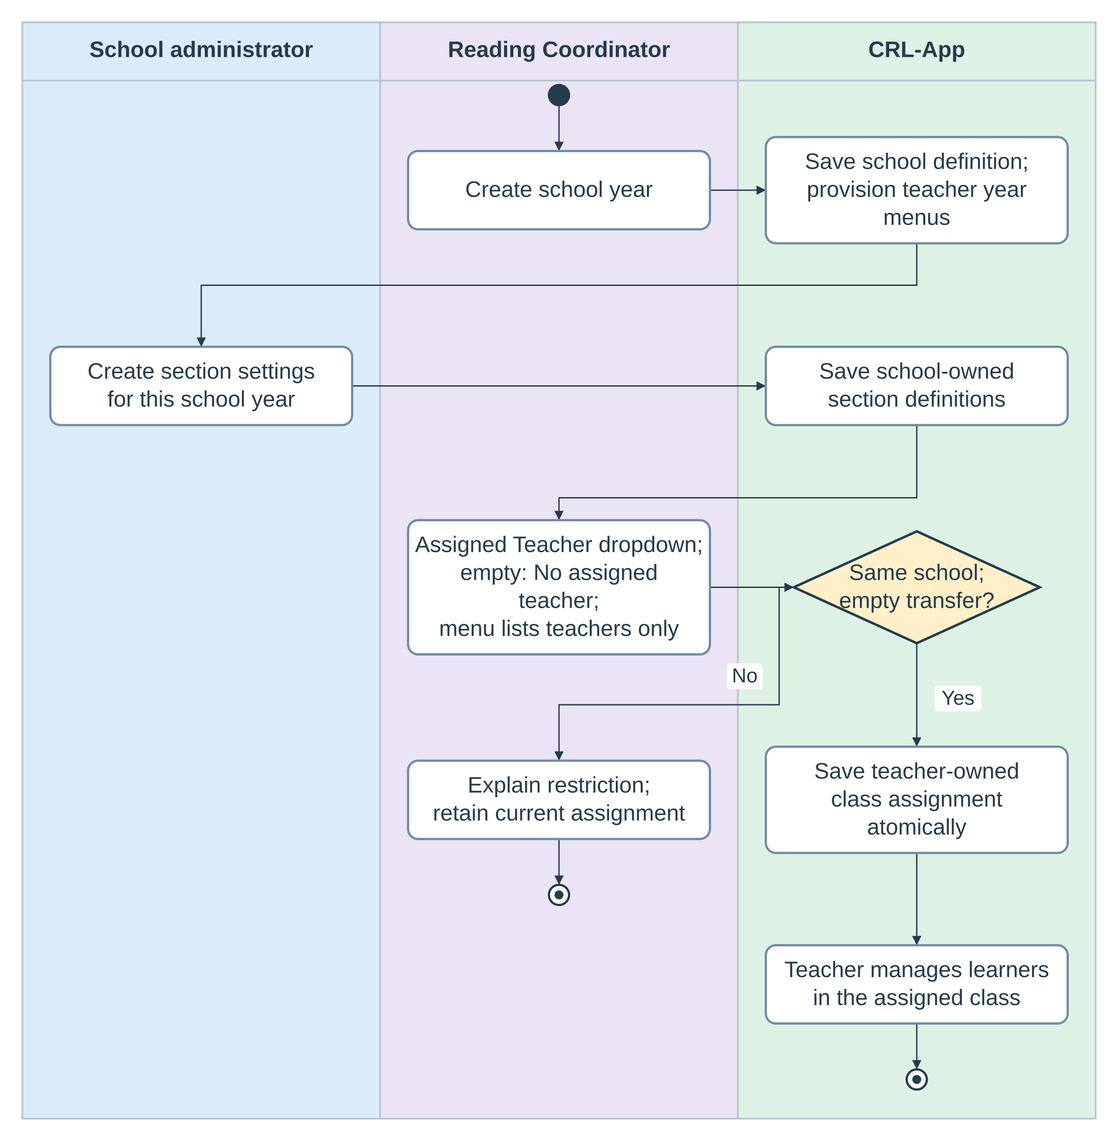
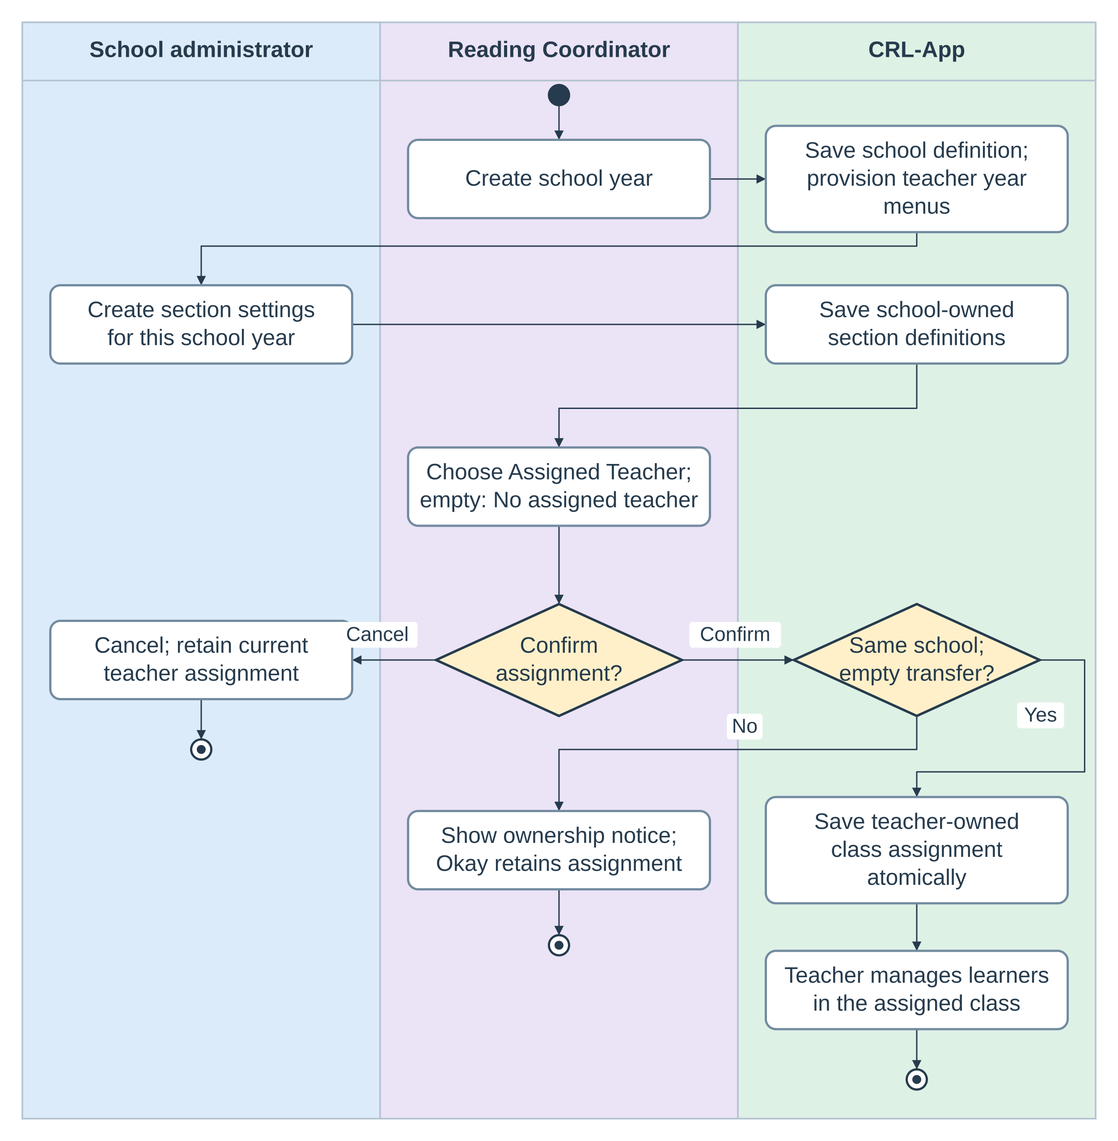
CRL-2026-11-07.8 confirm teacher assignments and refine ownership notices

diff --git a/components/SchoolYearAssignments.jsx b/components/SchoolYearAssignments.jsx
@@ -2,10 +2,11 @@
 import {useCallback,useEffect,useMemo,useRef,useState} from 'react';
 import Select from './Select';
 import ClassDialog from './ClassDialog';
+import NoticeDialog from './NoticeDialog';
 import WorkspaceLoading from './WorkspaceLoading';
 import styles from './Coordinator.module.css';
 export default function SchoolYearAssignments({api,refreshKey=0}) {
- const [data,setData]=useState(null),[year,setYear]=useState(''),[search,setSearch]=useState(''),[order,setOrder]=useState('desc'),[form,setForm]=useState(null),[newYear,setNewYear]=useState(''),[password,setPassword]=useState(''),[deleteYear,setDeleteYear]=useState(null),[busy,setBusy]=useState(false),[loading,setLoading]=useState(true),[error,setError]=useState('');const generation=useRef(0),pending=useRef(false);
+ const [data,setData]=useState(null),[year,setYear]=useState(''),[search,setSearch]=useState(''),[order,setOrder]=useState('desc'),[form,setForm]=useState(null),[newYear,setNewYear]=useState(''),[password,setPassword]=useState(''),[deleteYear,setDeleteYear]=useState(null),[busy,setBusy]=useState(false),[loading,setLoading]=useState(true),[error,setError]=useState(''),[confirmation,setConfirmation]=useState(null),[notice,setNotice]=useState('');const generation=useRef(0),pending=useRef(false);
  const load=useCallback(async()=>{const token=++generation.current;setLoading(true);try{const d=await api('coordinator_setup');if(token===generation.current)setData(d);}finally{if(token===generation.current)setLoading(false);}},[api]);
  useEffect(()=>{void load().catch(e=>setError(e.message));return()=>{generation.current++;};},[load,refreshKey]);
  const assignedCount=y=>data?.sections.filter(s=>s.startYear===y.startYear&&s.classes.length).length||0;
@@ -14,6 +15,7 @@ export default function SchoolYearAssignments({api,refreshKey=0}) {
  const deleteTarget=data?.years.find(y=>y.startYear===deleteYear),deleteCount=(data?.sections||[]).filter(s=>s.startYear===deleteYear).reduce((n,s)=>n+s.classes.length,0);
  const open=(kind,target)=>{setDeleteYear(target?.startYear??null);setForm(kind);setNewYear('');setPassword('');setError('');};
  const submit=async e=>{e.preventDefault();if(pending.current)return;pending.current=true;setBusy(true);setError('');try{if(form==='add'){await api('coordinator_add_year',{body:{start_year:Number(newYear)}});setYear(newYear);}else{await api('coordinator_delete_year',{body:{id:crypto.randomUUID(),start_year:deleteYear,expected_sections:deleteCount,empty_confirmation:deleteCount===0,confirmation_password:password}});if(Number(year)===deleteYear)setYear('');}setForm(null);void load().catch(e=>setError(e.message));}catch(e){setError(e.message);}finally{pending.current=false;setBusy(false);}};
- const assign=async(row,value)=>{if(pending.current)return;pending.current=true;setBusy(true);setError('');try{await api('coordinator_assign_section',{body:{start_year:Number(year),section_id:row.id,teacher_id:value?Number(value):null}});void load().catch(e=>setError(e.message));}catch(e){setError(e.message);}finally{pending.current=false;setBusy(false);}};
- return <><div className={styles.yearWorkspace}><section className={`${styles.panel} ${styles.yearDirectory}`} aria-label="School year list"><div className={styles.yearControls}><input type="search" aria-label="Search school years" placeholder="Search school years" value={search} onChange={e=>setSearch(e.target.value)}/><Select aria-label="Sort school years" value={order} onChange={e=>setOrder(e.target.value)}><option value="desc">Newest year first</option><option value="asc">Oldest year first</option></Select><button className={styles.primary} disabled={busy||loading} onClick={()=>open('add')}>Create school year</button></div>{loading?<WorkspaceLoading label="Loading school years…" variant="years"/>:<div className={styles.yearList}>{years.map(y=><article className={styles.yearListItem} data-selected={String(y.startYear)===year} key={y.startYear}><button className={styles.assignmentYear} aria-current={String(y.startYear)===year?'true':undefined} onClick={()=>setYear(String(y.startYear))}><strong>{y.label}</strong><small>{assignedCount(y)} section{assignedCount(y)===1?'':'s'}</small></button><button className={styles.yearTrash} aria-label={`Delete school year ${y.label}`} title={`Delete ${y.label}`} disabled={busy} onClick={()=>open('delete',y)}><svg width="19" height="19" viewBox="0 0 24 24" fill="none" stroke="currentColor" strokeWidth="1.7" aria-hidden="true"><path d="M3 6h18M9 6V3h6v3M5 6l1 15h12l1-15M10 10v7m4-7v7"/></svg></button></article>)}{!years.length&&<p className={styles.empty}>{data?.years.length?'No matching school years.':'No school years yet.'}</p>}</div>}</section><section className={`${styles.panel} ${styles.yearDetail}`} aria-label="School year assignments" aria-busy={loading}>{error&&!form&&<p role="alert" className={styles.error}>{error}</p>}{loading?<WorkspaceLoading label="Loading section assignments…" variant="years"/>:selected?<><div className={styles.contentHeading}><h2>{selected.label}</h2></div><div className={styles.yearList}>{sections.map(s=><article key={s.id} className={styles.assignmentRow}><strong>{s.name}</strong><div className={styles.teacherAssignment}><label><span>Assigned Teacher</span><Select aria-label={`Assigned teacher for ${s.name}`} value={String(s.classes[0]?.teacherId||'')} disabled={busy} onChange={e=>void assign(s,e.target.value)}><option hidden value="">No assigned teacher</option>{data.teachers.map(t=><option key={t.id} value={t.id}>{t.fullName}</option>)}</Select></label>{s.classes.length>0&&<button type="button" className={styles.unassignTeacher} disabled={busy} onClick={()=>void assign(s,'')} aria-label={`Unassign teacher from ${s.name}`}>Unassign</button>}</div></article>)}{!sections.length&&<p className={styles.empty}>No sections for this school year yet.</p>}</div></>:<p className={styles.empty}>Select a school year to view its sections and assigned teachers.</p>}</section></div>{form&&<ClassDialog title={form==='add'?'Create school year':`Delete school year ${deleteTarget?.label||''}?`} showClose busy={busy} onClose={()=>{if(!busy)setForm(null);}}><form className={styles.editorFields} onSubmit={submit}>{form==='add'?<label>School-year start<input required type="number" min={2000} max={2100} placeholder="2027" value={newYear} onChange={e=>setNewYear(e.target.value)}/></label>:<><p>{deleteCount?'Its sections and learner records will move to Recovery for 30 days.':'Remove this empty school year?'}</p>{deleteCount>0&&<label>Your coordinator password<input required type="password" autoComplete="current-password" value={password} onChange={e=>setPassword(e.target.value)}/></label>}</>}{error&&<p role="alert" className={styles.error}>{error}</p>}<div className={styles.dialogActions}><button type="button" className={styles.secondary} disabled={busy} onClick={()=>setForm(null)}>Cancel</button><button className={form==='delete'?styles.danger:styles.primary} disabled={busy}>{busy?'Saving…':form==='delete'?'Delete':'Create school year'}</button></div></form></ClassDialog>}</>;
+ const chooseTeacher=(row,value)=>{if(busy||loading||pending.current||String(row.classes[0]?.teacherId||'')===value)return;const teacher=data.teachers.find(t=>String(t.id)===value);if(teacher){setError('');setConfirmation({row:{id:row.id,name:row.name},teacher:{id:teacher.id,fullName:teacher.fullName},startYear:Number(year)});}};
+ const assign=async(row,value,startYear=Number(year))=>{if(pending.current)return;pending.current=true;setBusy(true);setError('');try{await api('coordinator_assign_section',{body:{start_year:startYear,section_id:row.id,teacher_id:value?Number(value):null}});setConfirmation(null);void load().catch(e=>setNotice('Assignment saved, but the section list could not refresh. '+e.message));}catch(e){setConfirmation(null);setNotice(e.message);}finally{pending.current=false;setBusy(false);}};
+ return <><div className={styles.yearWorkspace}><section className={`${styles.panel} ${styles.yearDirectory}`} aria-label="School year list"><div className={styles.yearControls}><input type="search" aria-label="Search school years" placeholder="Search school years" value={search} onChange={e=>setSearch(e.target.value)}/><Select aria-label="Sort school years" value={order} onChange={e=>setOrder(e.target.value)}><option value="desc">Newest year first</option><option value="asc">Oldest year first</option></Select><button className={styles.primary} disabled={busy||loading} onClick={()=>open('add')}>Create school year</button></div>{loading?<WorkspaceLoading label="Loading school years…" variant="years"/>:<div className={styles.yearList}>{years.map(y=><article className={styles.yearListItem} data-selected={String(y.startYear)===year} key={y.startYear}><button className={styles.assignmentYear} aria-current={String(y.startYear)===year?'true':undefined} onClick={()=>setYear(String(y.startYear))}><strong>{y.label}</strong><small>{assignedCount(y)} section{assignedCount(y)===1?'':'s'}</small></button><button className={styles.yearTrash} aria-label={`Delete school year ${y.label}`} title={`Delete ${y.label}`} disabled={busy} onClick={()=>open('delete',y)}><svg width="19" height="19" viewBox="0 0 24 24" fill="none" stroke="currentColor" strokeWidth="1.7" aria-hidden="true"><path d="M3 6h18M9 6V3h6v3M5 6l1 15h12l1-15M10 10v7m4-7v7"/></svg></button></article>)}{!years.length&&<p className={styles.empty}>{data?.years.length?'No matching school years.':'No school years yet.'}</p>}</div>}</section><section className={`${styles.panel} ${styles.yearDetail}`} aria-label="School year assignments" aria-busy={loading}>{error&&!form&&<p role="alert" className={styles.error}>{error}</p>}{loading?<WorkspaceLoading label="Loading section assignments…" variant="years"/>:selected?<><div className={`${styles.contentHeading} ${styles.yearHeading}`}><h2>{selected.label}</h2></div><div className={styles.yearList}>{sections.map(s=><article key={s.id} className={styles.assignmentRow}><strong>{s.name}</strong><div className={styles.teacherAssignment}><label><span>Assigned Teacher</span><Select aria-label={`Assigned teacher for ${s.name}`} value={String(s.classes[0]?.teacherId||'')} disabled={busy} onChange={e=>chooseTeacher(s,e.target.value)}><option hidden value="">No assigned teacher</option>{data.teachers.map(t=><option key={t.id} value={t.id}>{t.fullName}</option>)}</Select></label>{s.classes.length>0&&<button type="button" className={styles.unassignTeacher} disabled={busy} onClick={()=>void assign(s,'')} aria-label={`Unassign teacher from ${s.name}`}>Unassign</button>}</div></article>)}{!sections.length&&<p className={styles.empty}>No sections for this school year yet.</p>}</div></>:<p className={styles.empty}>Select a school year to view its sections and assigned teachers.</p>}</section></div>{confirmation&&<ClassDialog title="Assign teacher?" busy={busy} onClose={()=>{if(!busy)setConfirmation(null);}}><form className={styles.editorFields} onSubmit={e=>{e.preventDefault();void assign(confirmation.row,confirmation.teacher.id,confirmation.startYear);}}><p className={styles.assignmentQuestion}>Assign <strong>{confirmation.teacher.fullName}</strong> to section <strong>{confirmation.row.name}</strong>?</p><div className={styles.dialogActions}><button type="button" className={styles.secondary} disabled={busy} onClick={()=>setConfirmation(null)}>Cancel</button><button type="submit" className={styles.primary} disabled={busy}>{busy?'Assigning…':'Confirm'}</button></div></form></ClassDialog>}{notice&&<NoticeDialog message={notice} onClose={()=>setNotice('')}/>} {form&&<ClassDialog title={form==='add'?'Create school year':`Delete school year ${deleteTarget?.label||''}?`} showClose busy={busy} onClose={()=>{if(!busy)setForm(null);}}><form className={styles.editorFields} onSubmit={submit}>{form==='add'?<label>School-year start<input required type="number" min={2000} max={2100} placeholder="2027" value={newYear} onChange={e=>setNewYear(e.target.value)}/></label>:<><p>{deleteCount?'Its sections and learner records will move to Recovery for 30 days.':'Remove this empty school year?'}</p>{deleteCount>0&&<label>Your coordinator password<input required type="password" autoComplete="current-password" value={password} onChange={e=>setPassword(e.target.value)}/></label>}</>}{error&&<p role="alert" className={styles.error}>{error}</p>}<div className={styles.dialogActions}><button type="button" className={styles.secondary} disabled={busy} onClick={()=>setForm(null)}>Cancel</button><button className={form==='delete'?styles.danger:styles.primary} disabled={busy}>{busy?'Saving…':form==='delete'?'Delete':'Create school year'}</button></div></form></ClassDialog>}</>;
 }

diff --git a/components/Coordinator.module.css b/components/Coordinator.module.css
@@ -158,4 +158,6 @@
 .timelineCalendar .calendarDays button[data-reserved]{opacity:1;cursor:not-allowed}.timelineCalendar .calendarDays button[data-reserved=BoSY]{background:#dff2e6!important;color:#216340!important}.timelineCalendar .calendarDays button[data-reserved=MoSY]{background:#fff2c6!important;color:#735500!important}.timelineCalendar .calendarDays button[data-reserved=EoSY]{background:#eee4fa!important;color:#63428d!important}
 
 /* Display-only assignment state is distinct from actual teacher choices. */
-.teacherAssignment{display:grid;gap:8px;min-width:0}.teacherAssignment label{display:grid;gap:8px;min-width:0}.teacherAssignment label>span{font-size:12px;font-weight:600;color:var(--crl-muted,#62738a)}.teacherAssignment .unassignTeacher{justify-self:end;margin:0!important;padding:4px 0!important;min-height:28px!important;background:transparent!important;border:0!important;color:var(--crl-text,#375576)!important;font-size:12px;text-decoration:underline}.teacherAssignment .unassignTeacher:disabled{opacity:.5}
+.teacherAssignment{display:grid;gap:8px;min-width:0}.teacherAssignment label{display:grid;gap:8px;min-width:0}.teacherAssignment label>span{font-size:12px;font-weight:600;color:var(--crl-muted,#62738a)}.teacherAssignment .unassignTeacher{justify-self:start;margin:0!important;padding:8px 14px!important;min-height:36px!important;background:#fce7eb!important;border:1px solid #e7a8b5!important;border-radius:9px;color:#a32940!important;font-size:12px;font-weight:600;text-decoration:none;box-shadow:0 2px 6px #8b21320a}.teacherAssignment .unassignTeacher:disabled{opacity:.5}
+
+.yearDetail .yearHeading{justify-content:center;text-align:center}.yearDetail .yearHeading h2{width:100%;text-align:center}.assignmentQuestion{margin:0;line-height:1.7;overflow-wrap:anywhere}.teacherAssignment .unassignTeacher:focus-visible{outline:2px solid #b8335355;outline-offset:2px}:global(html[data-crl-theme=dark]) .teacherAssignment .unassignTeacher{background:#4a2733!important;border-color:#8d4b60!important;color:#ffd1dc!important}

diff --git a/scripts/verify-assessment-build.js b/scripts/verify-assessment-build.js
@@ -926,7 +926,7 @@ if (!/if \(existingSession\?\.signedOut\) return;/.test(teacherPreloadSource)) {
   );
 }
 if (
-  !/crla-pwa-v89/.test(serviceWorkerSource) ||
+  !/crla-pwa-v90/.test(serviceWorkerSource) ||
   !/event\.waitUntil\(warmAppShell\(\)\)/.test(serviceWorkerSource) ||
   !/await cacheDocumentDependencies\(response\)/.test(serviceWorkerSource) ||
   !/url\.pathname\.startsWith\("\/_next\/static\/"\)/.test(serviceWorkerSource)

diff --git a/public/sw.js b/public/sw.js
@@ -1,4 +1,4 @@
-const CACHE_NAME = "crla-pwa-v89";
+const CACHE_NAME = "crla-pwa-v90";
 
 const APP_SHELL = [
   "/",

diff --git a/docs/diagrams/class-workspaces/build_coordinator_diagrams.py b/docs/diagrams/class-workspaces/build_coordinator_diagrams.py
@@ -40,8 +40,8 @@ make('figure-08-assessment',['Teacher','CRL-App','Learner display'],[
  ('s',0,105,'',S),('class',0,165,'Choose school year and\nsection from class menu',P),('start',0,260,'Select learner; press Start\nConfirm live timeline',P),('valid',1,260,'Live and\neligible?',D),('deny',1,400,'Explain restriction;\nretain existing records',P),('denyf',1,470,'',F),('bind',2,260,'Bind saved contents\nand connect display',P),('present',2,500,'Show current\nassessment item',P),('mark',0,500,'Record oral responses;\ncontrol progression',P),('continue',1,680,'Continue to\nnext task?',D),('next',2,680,'Present next letters,\nwords, story or question',P),('review',0,820,'Review computed results\nand confirm save',P),('store',1,930,'Save to the owned class;\nqueue locally if offline',P),('end',1,1010,'',F)
 ],[('s','class'),('class','start'),('start','valid','right','left'),('valid','deny','bottom','top',None,'No',(438,329)),('deny','denyf'),('valid','bind','right','left',None,'Yes',(538,243)),('bind','present'),('present','mark','left','right'),('mark','continue','bottom','top',[(150,600),(410,600)]),('continue','next','right','left',None,'Yes',(538,663)),('next','present','right','right',[(788,680),(788,500)]),('continue','review','left','top',[(275,680),(275,755),(150,755)],'No',(286,663)),('review','store','bottom','left',[(150,930)]),('store','end')],h=1070)
 make('figure-15-class-management',['School administrator','Reading Coordinator','CRL-App'],[
- ('s',1,85,'',S),('year',1,170,'Create school year',P),('saveyear',2,170,'Save school definition;\nprovision teacher year menus',P),('section',0,345,'Create section settings\nfor this school year',P),('definition',2,345,'Save school-owned\nsection definitions',P),('assign',1,525,'Assigned Teacher dropdown;\nempty: No assigned teacher;\nmenu lists teachers only',P),('valid',2,525,'Same school;\nempty transfer?',D),('reject',1,715,'Explain restriction;\nretain current assignment',P),('rf',1,800,'',F),('save',2,715,'Save teacher-owned\nclass assignment atomically',P),('available',2,880,'Teacher manages learners\nin the assigned class',P),('end',2,965,'',F)
-],[('s','year'),('year','saveyear','right','left'),('saveyear','section','bottom','top',[(670,255),(150,255)]),('section','definition','right','left'),('definition','assign','bottom','top',[(670,445),(410,445)]),('assign','valid','right','left'),('valid','reject','left','top',[(570,525),(570,630),(410,630)],'No',(545,610)),('reject','rf'),('valid','save','bottom','top',None,'Yes',(700,630)),('save','available'),('available','end')],h=1020)
+ ('s',1,85,'',S),('year',1,160,'Create school year',P),('saveyear',2,160,'Save school definition;\nprovision teacher year menus',P),('section',0,290,'Create section settings\nfor this school year',P),('definition',2,290,'Save school-owned\nsection definitions',P),('assign',1,435,'Choose Assigned Teacher;\nempty: No assigned teacher',P),('confirm',1,590,'Confirm\nassignment?',D),('cancel',0,590,'Cancel; retain current\nteacher assignment',P),('cf',0,670,'',F),('valid',2,590,'Same school;\nempty transfer?',D),('reject',1,760,'Show ownership notice;\nOkay retains assignment',P),('rf',1,845,'',F),('save',2,760,'Save teacher-owned\nclass assignment atomically',P),('available',2,885,'Teacher manages learners\nin the assigned class',P),('end',2,965,'',F)
+],[('s','year'),('year','saveyear','right','left'),('saveyear','section','bottom','top',[(670,220),(150,220)]),('section','definition','right','left'),('definition','assign','bottom','top',[(670,365),(410,365)]),('assign','confirm'),('confirm','cancel','left','right',None,'Cancel',(278,573)),('cancel','cf'),('confirm','valid','right','left',None,'Confirm',(538,573)),('valid','reject','bottom','top',[(670,670),(410,670)],'No',(545,655)),('reject','rf'),('valid','save','right','top',[(792,590),(792,690),(670,690)],'Yes',(760,645)),('save','available'),('available','end')],h=1020)
 make('figure-16-records-reports',['Teacher / Coordinator','CRL-App','Class records'],[
  ('s',0,105,'',S),('scope',0,165,'Teacher: choose class;\ncoordinator: Main → Records',P),('auth',1,165,'Verify role and\nreport ownership',P),('load',2,165,'Read enrolled roster\nand matching results',P),('teacher',1,310,'Owning\nteacher?',D),('adminview',2,310,'View three report layouts;\nPrint or Export if needed',P),('adminend',2,390,'',F),('mode',0,310,'Choose Records, Analytics\nor Conduct → View',P),('edit',0,470,'Edit\nremarks?',D),('review',1,470,'Review results; compare\ntimelines in one bar chart',P),('change',0,630,'Change remarks only;\nretain scores and evidence',P),('persist',1,630,'Save remarks or\nqueue locally',P),('output',2,760,'Print or export\nselected-class report',P),('end',2,840,'',F)
 ],[('s','scope'),('scope','auth','right','left'),('auth','load','right','left'),('load','teacher','bottom','top',[(670,230),(410,230)]),('teacher','adminview','right','left',None,'No',(538,293)),('adminview','adminend'),('teacher','mode','left','right',None,'Yes',(278,293)),('mode','edit'),('edit','review','right','left',None,'No',(278,453)),('edit','change','bottom','top',None,'Yes',(180,545)),('change','persist','right','left'),('persist','output','right','top',[(670,630)]),('review','output','right','right',[(788,470),(788,760)]),('output','end')],h=900)

diff --git a/docs/CHANGELOG.md b/docs/CHANGELOG.md
@@ -1,5 +1,50 @@
 # CRL-App version and change notes
 
+## CRL-2026-11-07.8 — Confirmed assignments, ownership notices and panel alignment
+
+Date: 7 November 2026, Asia/Manila. Choosing a different teacher now opens a second
+Assign teacher? dialog with the actual teacher and section names plus Confirm and
+Cancel. The selection remains a draft until Confirm; Cancel/Escape keeps the existing
+assignment and sends no mutation. Confirmation captures the selected school year,
+section and teacher rather than relying on later UI state. Pending requests retain
+the existing duplicate-submission guard and disable confirmation/cancellation until
+acknowledgement. Selecting the already-assigned teacher remains a no-op.
+
+Assignment and unassignment errors, including the learner-ownership restriction,
+now use the existing Okay-only NoticeDialog. They no longer reserve error space in
+the right panel. Server rejection retains the current teacher. A post-save refresh
+failure is reported as a saved assignment with an unsuccessful list refresh. Year
+create/delete form errors retain their existing treatment. Unassign is a soft red
+button aligned left below its dropdown, with matching dark-theme colors. The school
+year heading is centered in the right assignment container.
+
+Affected: SchoolYearAssignments, scoped coordinator CSS, worker90/build guard,
+responsive checks and maintenance notes. Native capstone prose and the assignment
+activity diagram now include the confirmation, cancellation and Okay-only rejection
+paths. Editable drawio/SVG/PNG retain white actions, yellow decisions, the established
+lane colors and typography. ERD entities/relationships and use-case permissions
+remain accurate; this presentation change adds no stored entity or permission.
+
+The existing server's transactional school/teacher checks, learner and assessment
+ownership guards and atomic audit remain unchanged. Production readback confirms
+unique active section assignments and school RLS. No schema migration or operational
+record rewrite is required; assignment/learner counts remain intact. Do not bypass
+the guard or move learners to implement a dialog.
+
+Validation: clean npm ci; full npm run build with all 60 regression scripts,
+optimized compilation and an all-dependency audit with zero reported vulnerabilities.
+Actual-component checks passed at 320/768/1440 in light/dark themes, including named
+confirmation, cancel-without-write, confirmed save, blocked reassignment/unassignment,
+a single Okay button with no inline ownership error, retained teacher, centered year
+heading and left-aligned red action geometry. Existing calendar, manual activation,
+teacher/admin and prompt checks also passed. The updated native 115-page PDF was
+exported; its activity page and justified note were visually checked together.
+These software checks do not establish physical-device results.
+
+Rollback restores presentation only; retain server guards, assignments, timestamps,
+learner/assessment records and device journals. Never clear operational records as
+part of a UI rollback.
+
 ## CRL-2026-11-07.7 — Display-only dropdown prompts and restored manual Go live
 
 Date: 7 November 2026, Asia/Manila. Teacher assignment controls now show the title

diff --git a/docs/PROJECT_HANDOFF.md b/docs/PROJECT_HANDOFF.md
@@ -5,7 +5,30 @@ release history and `../AGENTS.md` for the required maintenance workflow.
 Verify the current source before changing behavior. These notes intentionally
 exclude identifying school context, device inventories and deployment details.
 
-## Current release — CRL-2026-11-07.7
+## Current release — CRL-2026-11-07.8
+
+Teacher selection is a confirmation draft. Show the chosen teacher and section in
+an Assign teacher? dialog with Confirm/Cancel before writing. Capture its year and
+IDs at selection; Cancel/Escape sends nothing and retains the committed teacher.
+Use the existing pending guard and disable controls during acknowledgement. Keep
+same-teacher selection a no-op. Assignment/unassignment rejection uses Okay-only
+NoticeDialog, without an inline panel error or changed ownership. Post-save refresh
+failure must distinguish the acknowledged save from the failed refresh. Year form
+errors retain their existing handling.
+
+Center the school-year heading in the right assignment panel. Unassign is a red
+button on the left under its dropdown in both themes. Worker90 retains journals.
+The server's school, learner and assessment ownership guards remain authoritative.
+Production readback confirms active-assignment uniqueness and school RLS; no schema
+or operational-data write is needed. ERD/use-case structures remain accurate.
+
+Native capstone and editable assignment activity sources include confirmation,
+cancellation and Okay-only rejection with the established colors and lanes. Clean
+install, full build/audit and six responsive combinations passed; the native PDF
+activity page was rendered and visually checked. Preserve records on rollback.
+No physical-tablet evaluation is established by these software checks.
+
+## Previous release — CRL-2026-11-07.7
 
 Placeholder options are explicitly hidden in shared Select popups and keyboard
 navigation, while retained in the native options for closed display and validity.
